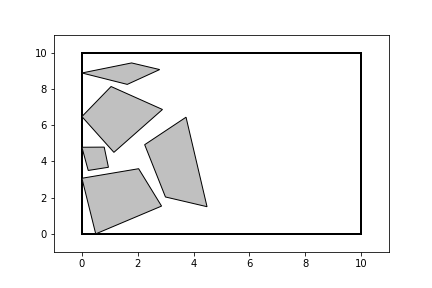
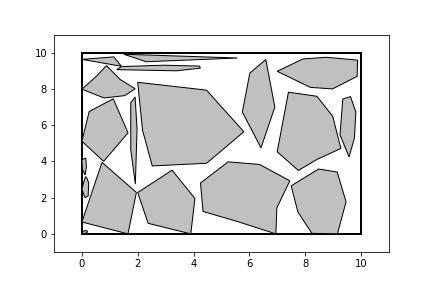
change generator

Changed region(s): [[0.1806, 0.1875, 0.8426, 0.8125]]

diff --git a/generate.py b/generate.py
@@ -61,7 +61,7 @@ class Generator():
         # создаем
         for id in range(self.number):
             # t = time.time()
-            points = generate_polygon(center=(250, 250), avg_radius=100, irregularity=0.35, spikiness=0.2, num_vertices=4)
+            points = generate_polygon(center=(250, 250), avg_radius=100, irregularity=0.35, spikiness=0.2, num_vertices=random.randint(3, 8))
             # points = np.array(uc.arpol(uc.getPolygon(), 0.0, 1, 3))
             size = shift2zero(points)
 
